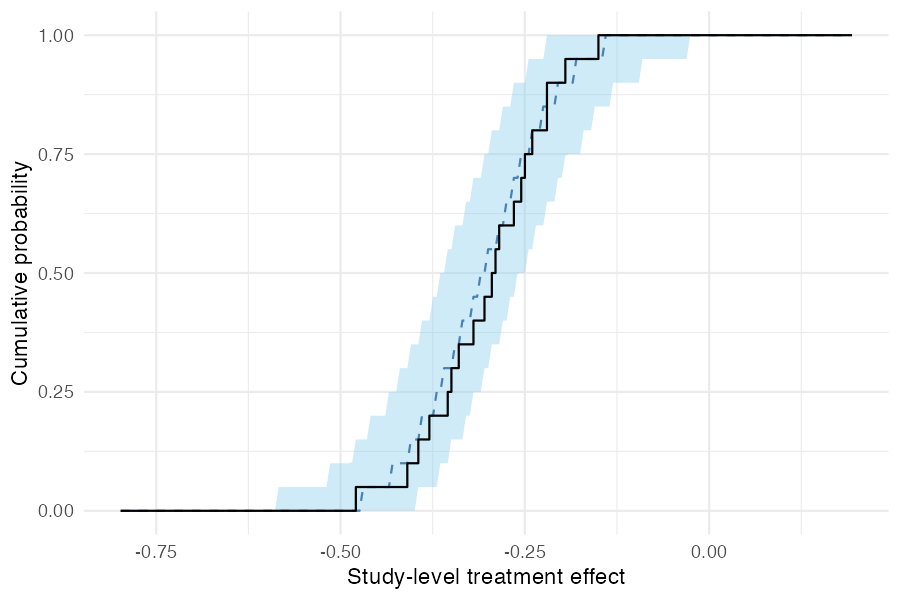
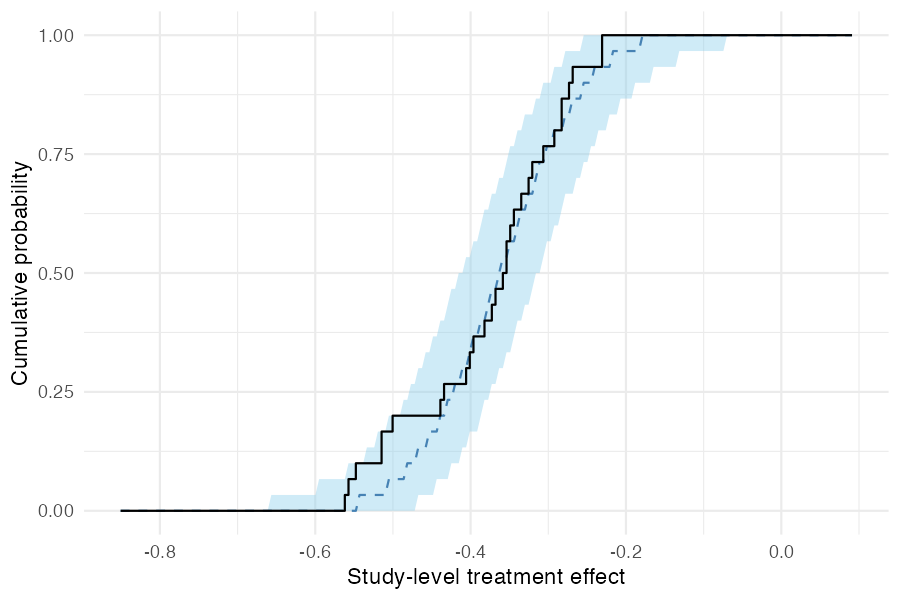
added readme example where we compare full did with mixed design

diff --git a/README.md b/README.md
@@ -98,10 +98,10 @@ control group.
 Different study designs correspond to observing subsets of this latent
 structure:
 
-- **DiD / RCT**: both groups and both time points observed  
-- **Pre-post**: treatment group only  
-- **Post-only / change-score**: partial observations of levels or
-  differences
+- **DiD**: both groups and both time points observed  
+- **RCT**: both groups, post-treatment only  
+- **Pre-post**: treatment group only, both time points  
+- **Change-score**: partial observations of differences
 
 Inference for incomplete designs relies on the shared latent structure
 across studies.
@@ -138,7 +138,7 @@ The model supports both:
 - **individual-level data**, and  
 - **summary statistics** (means, variances, sample sizes)
 
-by deriving likelihoods from the same bivariate normal model.
+by deriving likelihoods from the same latent bivariate normal structure.
 
 ------------------------------------------------------------------------
 
@@ -181,122 +181,127 @@ pak::pak("ben18785/metadid")
 ### 1. Simulate studies
 
 `simulate_meta_did()` generates individual-level pre/post data for both
-arms across a set of studies from a known hierarchical model.
-`as_summary_did()` then aggregates this to the four-cell summary
-statistics (pre/post × control/treatment) that represent what is
-typically reported in a published study.
+arms across a set of studies from a known hierarchical model. We
+simulate 30 studies from a shared latent DiD structure:
 
 ``` r
 library(metadid)
-#> 
-#> Attaching package: 'metadid'
-#> The following object is masked from 'package:base':
-#> 
-#>     gamma
+library(dplyr)
+library(ggplot2)
 
 sim <- simulate_meta_did(
-  n_studies     = 20,
+  n_studies     = 30,
+  n_control     = 80,
+  n_treatment   = 80,
   true_effect   = -0.15,
   sigma_effect  = 0.03,
+  true_trend    = -0.02,
+  sigma_trend   = 0.01,
   baseline_mean = 0.45,
+  baseline_sd   = 0.02,
   rho           = 0.5,
-  seed          = 42
+  seed          = 7251
 )
-
-studies <- as_summary_did(sim)
-head(studies)
-#> # A tibble: 6 × 13
-#>   study_id design n_control n_treatment mean_pre_control mean_post_control
-#>   <chr>    <chr>      <int>       <int>            <dbl>             <dbl>
-#> 1 study_1  did          100         100            0.450             0.418
-#> 2 study_10 did          100         100            0.448             0.435
-#> 3 study_11 did          100         100            0.420             0.409
-#> 4 study_12 did          100         100            0.475             0.444
-#> 5 study_13 did          100         100            0.447             0.435
-#> 6 study_14 did          100         100            0.461             0.416
-#> # ℹ 7 more variables: sd_pre_control <dbl>, sd_post_control <dbl>,
-#> #   mean_pre_treatment <dbl>, mean_post_treatment <dbl>,
-#> #   sd_pre_treatment <dbl>, sd_post_treatment <dbl>, rho <dbl>
 ```
 
 The true population treatment effect is `-0.15` on the raw scale, or
-approximately -0.333 after normalising by the baseline mean of `0.45`.
+approximately `-0.333` after normalising by the baseline mean of `0.45`.
 
-### 2. Fit the model via optimisation
+### 2. Two scenarios from the same data
 
-`meta_did()` fits a hierarchical Bayesian model. Setting
-`method = "optimize"` finds the maximum a posteriori (MAP) estimate via
-L-BFGS — this is faster than MCMC but provides no uncertainty measures
-in estimates.
+In the best case, every study provides full four-cell summary statistics
+(pre/post × control/treatment). This gives the model maximum information
+per study:
 
 ``` r
-fit <- meta_did(
-  summary_data = studies,
-  method       = "optimize",
-  seed         = 42
+all_did <- as_summary_did(sim)
+
+fit_all_did <- meta_did(
+  summary_data = all_did,
+  seed         = 7251
 )
 
-print(fit)
+print(fit_all_did)
 ```
 
     #> Bayesian meta-analysis (metadid)
-    #> Studies: DiD = 20 | RCT = 0 | Pre-Post = 0 | DiD (change only) = 0 
-    #> Population treatment effect: -0.303  (MAP estimate, no uncertainty)
+    #> Studies: DiD = 30 | RCT = 0 | Pre-Post = 0 | DiD (change only) = 0 
+    #> Population treatment effect: -0.363  90% CI [-0.392, -0.334]
 
-### 3. Inspect study-level estimates
-
-`summary()` returns a data frame of population- and study-level
-parameters. With MAP optimisation, only point estimates are available
-(`sd`, `lo`, and `hi` are `NA`); use `method = "sample"` for full
-posterior uncertainty.
+Now suppose, from the same underlying data, only a third of studies
+provide full DiD information. Another third are RCTs (post-treatment
+outcomes only), and the remaining third are pre-post studies (treatment
+arm only):
 
 ``` r
-summary(fit)
-```
+study_ids <- unique(sim$study_id)
+true_params <- attr(sim, "true_params")
 
-    #>                       parameter       mean sd lo hi
-    #> 1         treatment_effect_mean -0.3032553 NA NA NA
-    #> 2           treatment_effect_sd  0.2621790 NA NA NA
-    #> 3  treatment_effect_did_summary -0.2626185 NA NA NA
-    #> 4  treatment_effect_did_summary -0.4008142 NA NA NA
-    #> 5  treatment_effect_did_summary -0.1788253 NA NA NA
-    #> ...
+sim_did <- sim |> filter(study_id %in% study_ids[1:10])
+sim_rct <- sim |> filter(study_id %in% study_ids[11:20])
+sim_pp  <- sim |> filter(study_id %in% study_ids[21:30])
 
-### 4. Fit the model via MCMC
+attr(sim_did, "true_params") <- true_params |> filter(study_id %in% study_ids[1:10])
+attr(sim_rct, "true_params") <- true_params |> filter(study_id %in% study_ids[11:20])
+attr(sim_pp, "true_params")  <- true_params |> filter(study_id %in% study_ids[21:30])
 
-For full posterior uncertainty, use the default `method = "sample"`:
-
-``` r
-fit_mcmc <- meta_did(
-  summary_data  = studies,
-  seed          = 42,
-  iter_warmup   = 200,
-  iter_sampling = 400
+mixed <- bind_rows(
+  as_summary_did(sim_did),
+  as_summary_rct(sim_rct),
+  as_summary_pp(sim_pp)
 )
 
-print(fit_mcmc)
+fit_mixed <- meta_did(
+  summary_data = mixed,
+  seed         = 7251
+)
+
+print(fit_mixed)
 ```
 
     #> Bayesian meta-analysis (metadid)
-    #> Studies: DiD = 20 | RCT = 0 | Pre-Post = 0 | DiD (change only) = 0 
-    #> Population treatment effect: -0.307  90% CI [-0.341, -0.273]
+    #> Studies: DiD = 10 | RCT = 10 | Pre-Post = 10 | DiD (change only) = 0 
+    #> Population treatment effect: -0.362  90% CI [-0.394, -0.331]
 
-`summary()` now includes posterior standard deviations and credible
-intervals:
+### 3. Comparing posteriors
+
+Both fits recover the true normalised effect (−0.333, dashed line). The
+mixed-design posterior is slightly wider, reflecting the information
+lost by having two-thirds of the studies provide incomplete data — but
+the difference is modest.
 
 ``` r
-summary(fit_mcmc)
+draws_did <- as.numeric(
+  fit_all_did$fit$draws("treatment_effect_mean", format = "draws_matrix")
+)
+draws_mix <- as.numeric(
+  fit_mixed$fit$draws("treatment_effect_mean", format = "draws_matrix")
+)
+
+comp_df <- data.frame(
+  value = c(draws_did, draws_mix),
+  scenario = rep(c("All DiD (30 studies)", "Mixed designs (10 DiD + 10 RCT + 10 PP)"),
+                 each = length(draws_did))
+)
+
+ggplot(comp_df, aes(x = value, fill = scenario)) +
+  geom_density(alpha = 0.4) +
+  geom_vline(xintercept = -0.15 / 0.45, linetype = "dashed", linewidth = 0.8) +
+  annotate("text", x = -0.15 / 0.45 + 0.003, y = Inf, label = "True effect",
+           hjust = 0, vjust = 1.5, size = 3.5) +
+  labs(x = "Population treatment effect (normalised)", y = "Density", fill = NULL) +
+  theme_minimal() +
+  theme(legend.position = "bottom")
 ```
 
-    #>                       parameter        mean         sd          lo         hi
-    #> 1         treatment_effect_mean -0.30734301 0.02053925 -0.34109011 -0.2731060
-    #> 2           treatment_effect_sd  0.08387904 0.01614552  0.06170731  0.1124974
-    #> 3  treatment_effect_did_summary -0.23482038 0.02605055 -0.27537815 -0.1916570
-    #> 4  treatment_effect_did_summary -0.35087501 0.02539211 -0.39315193 -0.3085825
-    #> 5  treatment_effect_did_summary -0.22512112 0.02910410 -0.27397179 -0.1791810
-    #> ...
+![](man/figures/README-comparison.png)
 
-### 5. Posterior predictive checks
+The key takeaway: by assuming a common latent DiD structure, the model
+borrows strength across designs. RCT and pre-post studies contribute
+meaningful information about the treatment effect, even though they each
+observe less of the underlying process than a full DiD study.
+
+### 4. Posterior predictive checks
 
 `pp_check_cdf(type = "summary")` compares the empirical CDF of observed
 study-level treatment effects (step function) to the posterior
@@ -304,7 +309,7 @@ predictive CDF (ribbon and dashed median). If the model is
 well-calibrated, the observed ECDF should track the predictive band.
 
 ``` r
-pp_check_cdf(fit_mcmc, type = "summary")
+pp_check_cdf(fit_mixed, type = "summary")
 ```
 
 ![](man/figures/README-pp-check-cdf-1.png)
@@ -313,7 +318,7 @@ For a more granular per-study view, `pp_check_effects()` shows each
 study’s observed naive effect against its posterior predictive density:
 
 ``` r
-pp_check_effects(fit_mcmc)
+pp_check_effects(fit_mixed)
 ```
 
 ![](man/figures/README-pp-check-effects-1.png)
